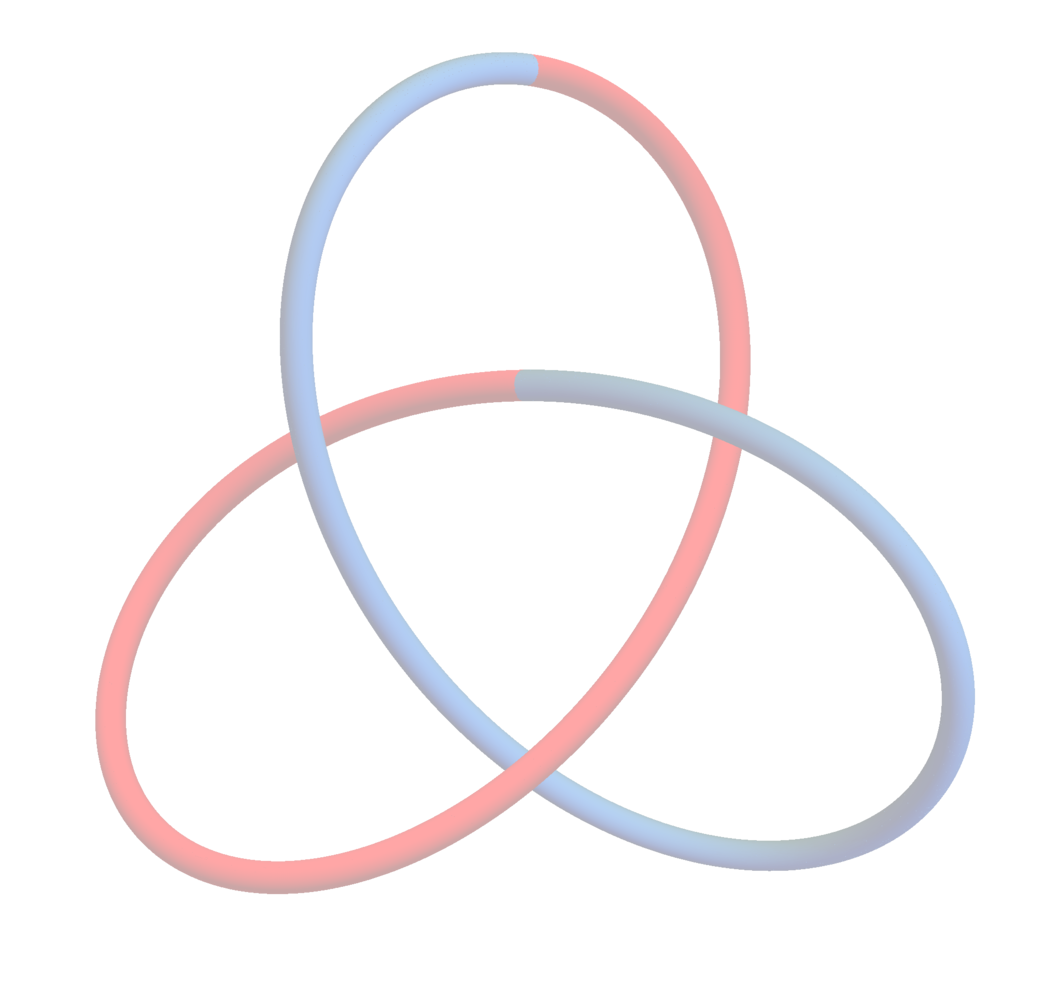
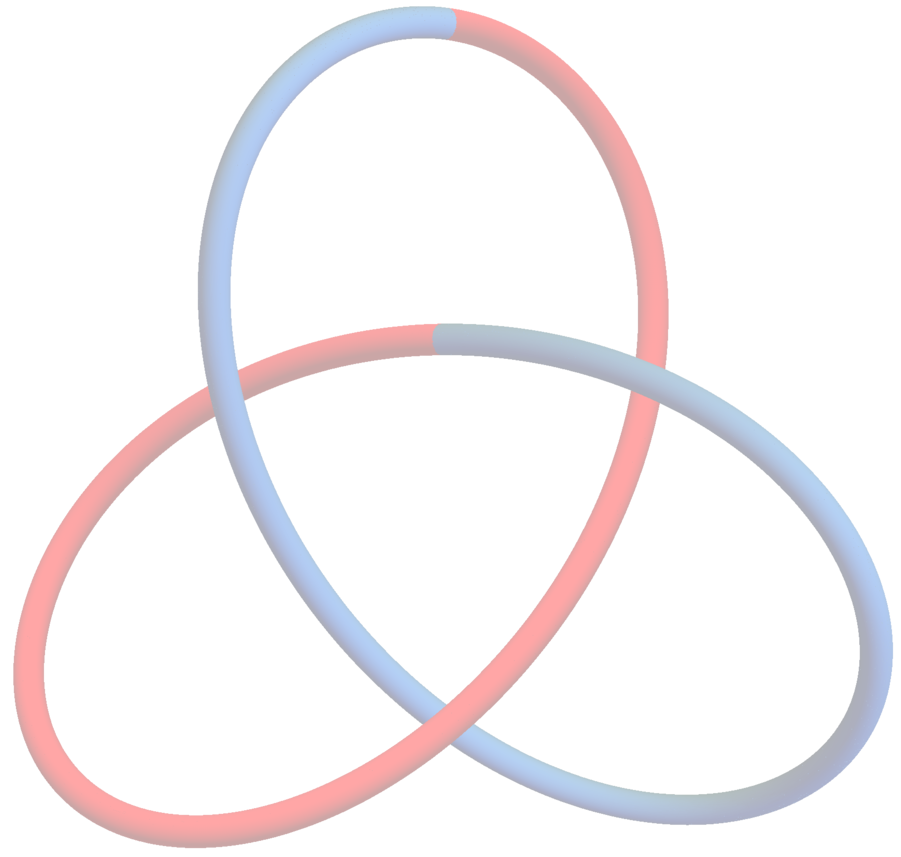
change background centering

Changed region(s): [[0.0, 0.0, 0.9945, 1.0]]

diff --git a/screen.css b/screen.css
@@ -73,19 +73,20 @@ h2{
 body{
 
   background: url(backgroundtrefoil.png);
-  background-size: auto 50vw;
+  background-size: auto auto;
   background-position: center;
   background-repeat: no-repeat;
 }
 
 nav{
-  margin-top: 50vh;
+  margin-top: 35vh;
   margin-left: 6vw;
   margin-right: 6vw;
+  margin-bottom: 5vh;
   display: grid;
   grid-template-columns: repeat(auto-fit, minmax(25vw, 1fr));
   grid-gap: 1rem;
-  
+	  
 }
 
 
